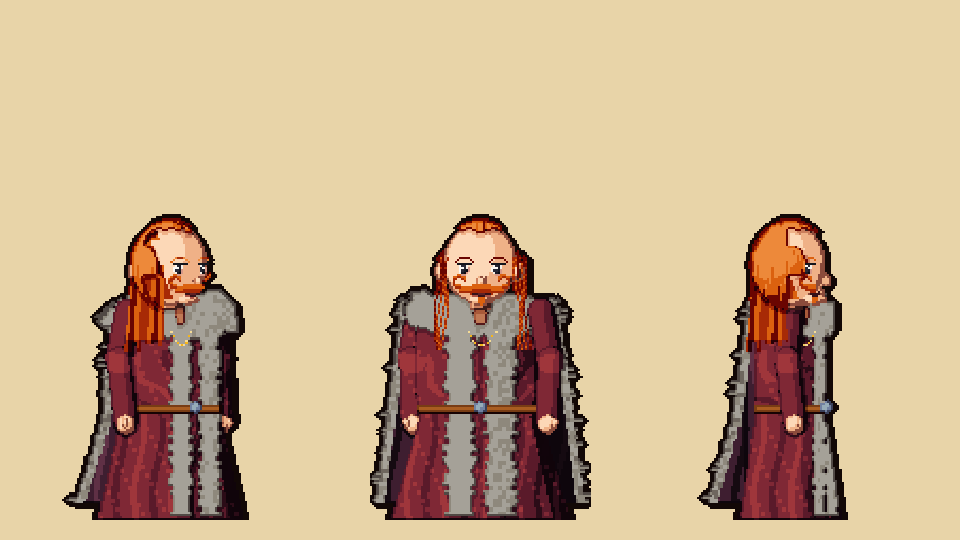
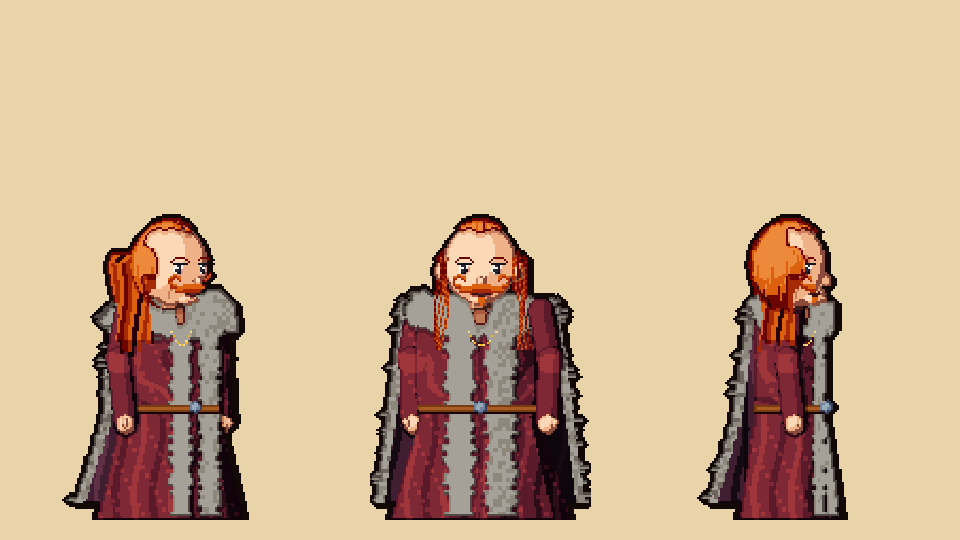
Planche 75 v2 : les cheveux du duc tombent sur le côté de la tête (de biais et de profil), d'après le croquis du joueur
Claude-Session: https://claude.ai/code/session_018kbaP56NxxNMUzmj9EfKBC

Changed region(s): [[0.0938, 0.4444, 0.1875, 0.6519], [0.75, 0.5037, 0.8438, 0.6519], [0.1562, 0.4148, 0.1875, 0.4444]]

diff --git a/src/corpsVueHD.js b/src/corpsVueHD.js
@@ -1198,27 +1198,37 @@ function dessinerCorpsVue(g, tenue = 1, costume = null, pas = 0, pose = null, vu
         // l'arrière, puis les cheveux qui coulent du crâne jusque sur la fourrure. On repeint aussi la calotte de la coupe
         // de base, pour que tout soit la même chevelure (mêmes mèches, même sens).
         if (!dos && Math.abs(s) >= 0.2) {
-          const av = s > 0 ? 1 : -1, ar = -av, sa = Math.abs(s);
-          const enCalotte = (x, y) => { const nx = (x + 0.5 - cx) / (P.rx + 0.6 * k), ny = (y + 0.5 - cy) / (P.ry + 0.6 * k);
-            if (nx * nx + ny * ny > 1 || ny > 0.8) return false;
-            return nx * av < -0.12 - 0.5 * (1 - sa) + 0.42 * ny + (ny < -0.6 ? 0.25 : 0); };   // (la ligne des cheveux : du haut du crâne, en arrière, jusque derrière l'oreille)
-          const basM = yT + 12 * k;
-          const dansChute = (x, y) => { if (y < cy || y > basM) return false; const d = (x + 0.5 - cx) * ar;
-            const arriere = P.rx * (0.98 + 0.12 * (1 - sa)) + Math.max(0, y - cy) * 0.11, avant = P.rx * (0.1 + 0.35 * (1 - sa)) - Math.max(0, y - cy - P.ry) * 0.02;
-            return d >= avant && d <= arriere; };
+          // la chevelure tombe sur le côté de la tête qui nous fait face : elle part du haut du crâne, couvre l'oreille, et
+          // descend tout droit jusque sur l'épaule de notre côté (le front reste dégarni)
+          const av = s > 0 ? 1 : -1, xe = X(pres * P.rx * 0.95, -0.1 * P.rx), basM = yT + 12 * k;
+          const dansTete = (x, y) => { const nx = (x + 0.5 - cx) / (P.rx + 0.7 * k), ny = (y + 0.5 - cy) / (P.ry + 0.7 * k); return nx * nx + ny * ny <= 1; };
           const pts = [];
           for (let y = Math.round(cy - P.ry - 2 * k); y <= basM; y++) for (let x = 0; x < L; x++) {
             const m = t.mat(x, y); if (m === 'blanc' || m === 'pupille' || m === 'iris') continue;
-            const vieux = m === 'cheveux' && y < cy + P.ry;
-            if (!(vieux || enCalotte(x, y) || dansChute(x, y))) continue;
+            const f = (x + 0.5 - xe) * av;   // (en avant de l'oreille si > 0)
+            let dedans = false;
+            if (dansTete(x, y) && y < cy + P.ry * 0.55) {
+              // sur le crâne : tout ce qui est derrière une ligne qui passe juste devant l'oreille et recule vers le haut (le front dégarni)
+              const recul = Math.max(0, (cy - P.ry * 0.2) - y) * 0.55;
+              dedans = f < P.rx * 0.32 - recul;
+            } else if (y >= cy - P.ry * 0.3) {
+              // le rideau de cheveux, de l'oreille jusqu'à l'épaule, qui s'élargit un peu en descendant
+              const lisse = (a, b) => Math.max(0, Math.min(1, (y - a) / (b - a)));
+              const onde = Math.sin(y / (3.5 * k)) * 0.5 * k;
+              const arriere = -P.rx * (0.9 - 0.22 * lisse(cy, cy + P.ry * 1.2) + 0.18 * lisse(yT, basM)) + onde;
+              const avant = P.rx * (0.3 - 0.16 * lisse(cy + P.ry * 0.3, yT) + 0.14 * lisse(yT, basM)) + onde * 0.6;
+              dedans = f > arriere && f < avant;
+            }
+            if (!dedans) continue;
             if (y > basM - hachage(Math.floor(x / k), 3, 71) * 4 * k) continue;   // (les pointes effilées)
-            pts.push([x, y]); }
-          for (const [x, y] of pts) {
-            // le sens des mèches : en arc autour du crâne, puis tout droit vers le bas
-            const ang = Math.atan2(y + 0.5 - cy, (x + 0.5 - cx) * ar), r = Math.hypot(x + 0.5 - cx, y + 0.5 - cy);
-            const fil = y < cy + P.ry * 0.3 ? Math.floor(r / (1.1 * k)) : Math.floor(((x + 0.5 - cx) * ar - Math.max(0, y - cy) * 0.06) / (1.1 * k));
-            const lum = (y < cy && ang < -1.2 ? 1 : 0) - (y > yT + 8 * k ? 1 : 0);
-            t.poser(x, y, 'cheveux', Math.max(0, Math.min(5, [2, 3, 1, 3, 2][((fil % 5) + 5) % 5] + lum)));
+            pts.push([x, y, f]); }
+          for (const [x, y, f] of pts) {
+            // les mèches : en arc sur le crâne, puis tout droit
+            const surCrane = y < cy - P.ry * 0.1;
+            const fil = surCrane ? Math.floor(Math.hypot(x + 0.5 - xe, y + 0.5 - (cy + P.ry * 0.3)) / (1.1 * k)) : Math.floor((f + P.rx + Math.sin(y / (4 * k)) * 0.7 * k) / (1.1 * k));
+            const lum = (y < cy - P.ry * 0.5 ? 1 : 0) - (y > yT + 8 * k ? 1 : 0) - (f > P.rx * 0.2 && !surCrane ? 1 : 0);
+            const motif = [3, 2, 3, 1, 2, 3, 0][((fil % 7) + 7) % 7];   // (des mèches nettes : une raie sombre de temps en temps)
+            t.poser(x, y, 'cheveux', Math.max(0, Math.min(5, motif + lum)));
           }
         }
       } }

diff --git a/docs/game-design.md b/docs/game-design.md
@@ -3291,3 +3291,5 @@ Idée du joueur : la couleur par sujet portée par des pierres précieuses sur l
   - **les grues de papier géantes** ou **les palanquins** (les Monts de Bambou) ;
   - **la monture volante** (Aérelle, ★5, le Royaume des Mages : le griffon, déjà noté dans les idées) : vole en moins d'un jour vers n'importe quelle ville où l'on s'est installé.
 - **Questions au joueur** (posées le 23/10) : ces transports servent-ils seulement aux visites (la maison déménage toujours sur ses pattes) ? côté ombre, la monture volante est-elle la même ou une autre (une chauve-souris géante, une vouivre) ?
+- **Retour suivant (23/10)**, avec un croquis : de profil, on dirait des épaulettes sous le cou plutôt que des cheveux, qui partent de l'autre côté de la tête pour finir sur l'épaule la plus proche ; les cheveux doivent partir d'un peu plus haut sur la tête, et tomber sur le côté (« un peu comme ceux des filles, mais pas autant »).
+  - **Corrigé** : de biais et de profil, la chevelure tombe sur le côté de la tête qui nous fait face : elle part du haut du crâne (le front reste dégarni), couvre l'oreille, se resserre un peu sous la mâchoire puis s'étale sur l'épaule de notre côté, en mèches ondulées avec des raies sombres et des pointes effilées. La vue de face ne change pas.
